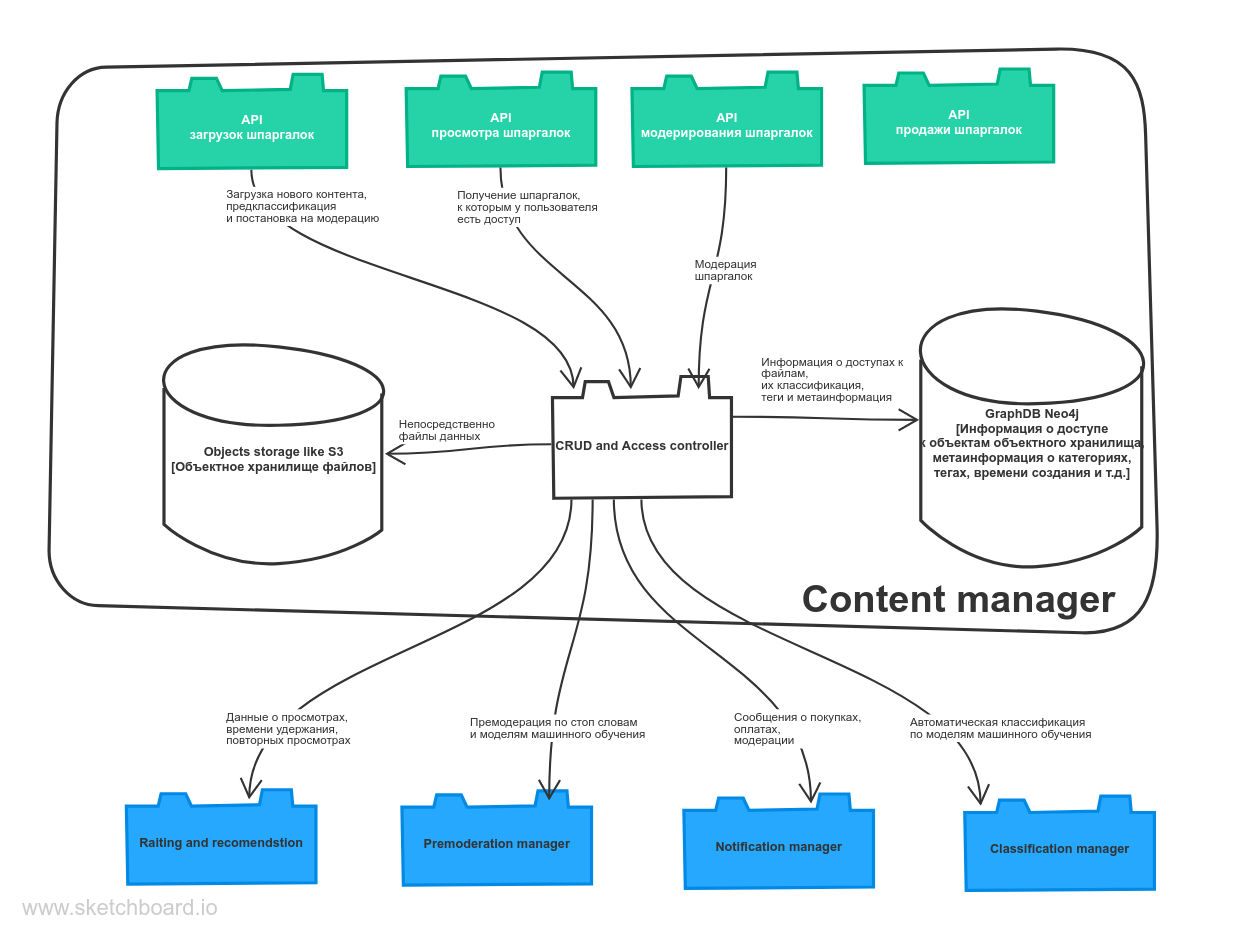
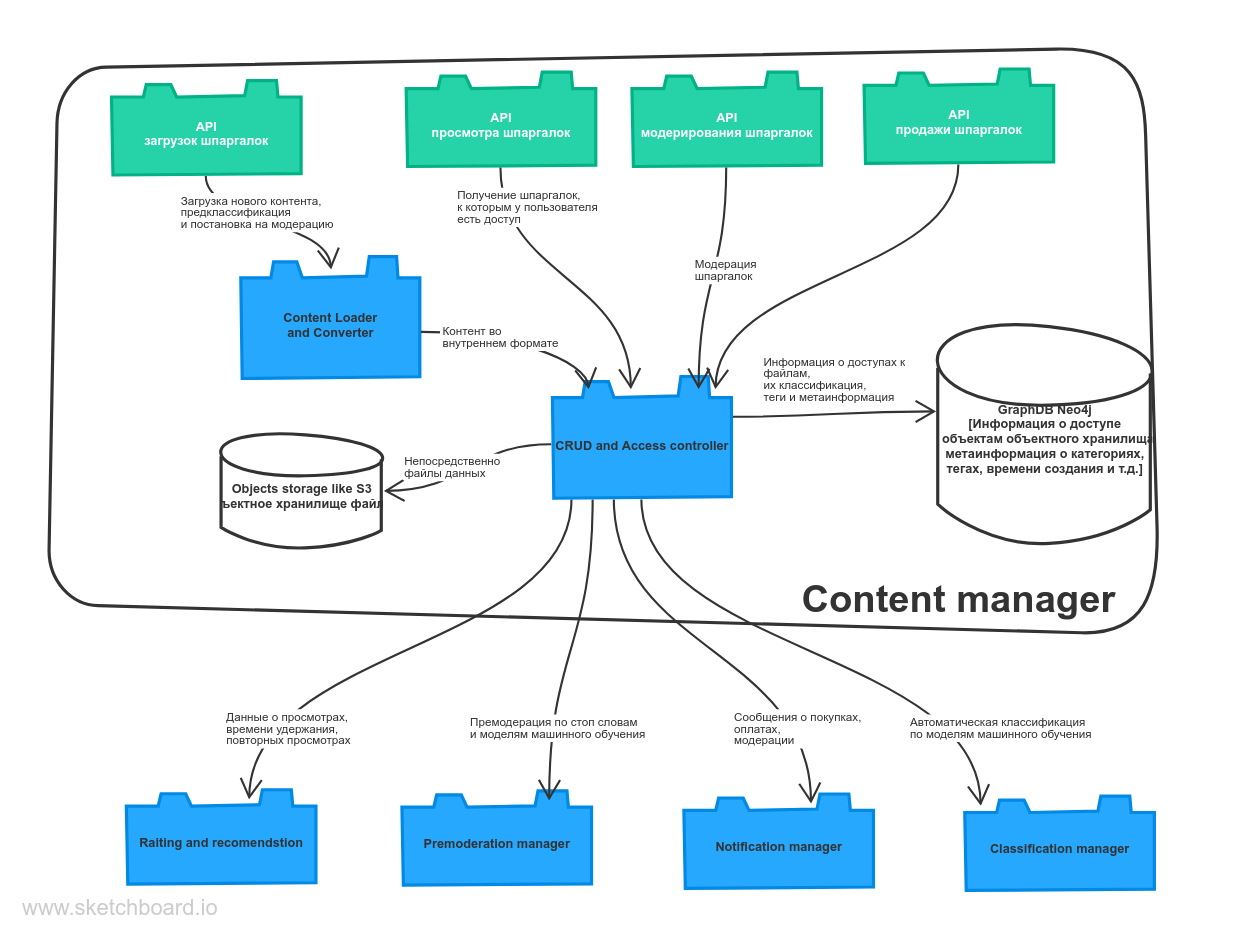
Дописал ADR, поправил компонентную

Changed region(s): [[0.0622, 0.0618, 0.933, 0.6177], [0.6531, 0.278, 0.6842, 0.3088]]

diff --git a/README.md b/README.md
@@ -125,13 +125,16 @@
 
 ## Architecture Decision Records
 
-| #      | Описание                                                                                                                                                                                                              |
-|--------|-----------------------------------------------------------------------------------------------------------------------------------------------------------------------------------------------------------------------|
-| ADR.01 | В проекте будем использовать практику ведения Architecture Decision Records                                                                                                                                           |
-| ADR.02 | В качестве архитектурного стиля будет использоваться микросервисная архитектура. Подробнее в [ADR.02 Выбор архитектурного стиля](../ADR/ADR02ArchStyle.md)|
-| ADR.03 | В проекте будет использовтаься графовая система хранения данных для хранения информации о доступов к статьям. Подробнее в [ADR.03 Выбор системы хранения для обеспечения доступа](../ADR/ADR03Storage.md)             |
-| ADR.04 | В системе **не будут** храниться персональные данные клиентов. Все персональные данные будут хранится в других системах МТС, через которые будет происходить идентификация пользователя по номеру телефона            |
-
+| #      | Описание                                                                                                                                                                                                   |
+|--------|------------------------------------------------------------------------------------------------------------------------------------------------------------------------------------------------------------|
+| ADR.01 | В проекте будем использовать практику ведения Architecture Decision Records                                                                                                                                |
+| ADR.02 | В качестве архитектурного стиля будет использоваться микросервисная архитектура. Подробнее в [ADR.02 Выбор архитектурного стиля](../ADR/ADR02ArchStyle.md)                                                 |
+| ADR.03 | В проекте будет использовтаься графовая система хранения данных для хранения информации о доступов к статьям. Подробнее в [ADR.03 Выбор системы хранения для обеспечения доступа](../ADR/ADR03Storage.md)  |
+| ADR.04 | В системе **не будут** храниться персональные данные клиентов. Все персональные данные будут хранится в других системах МТС, через которые будет происходить идентификация пользователя по номеру телефона |
+| ADR.05 | Для хранения файлов со шпаргалками будет использоваться BLOB хранилище                                                                                                                                     |                                                                                                                                                                                                         |
+| ADR.06 | Для синхронного взаимодействия будет использоваться REST                                                                                                                                                   |
+| ADR.07 | При выборе сторонних систем приоритет отдается системам МТС                                                                                                                                                |
+| ADR.08 | При загрузке контента контент конвертируется во внутренний формат. При чтении контент отдается во внутреннем формате.                                                                                      |
 
 ## Архитектура
 Все диграммы доступны на [sketchBoard](https://sketchboard.me/xC9nFpoPfhRf#/) или в [файле](../res/Board.json).
